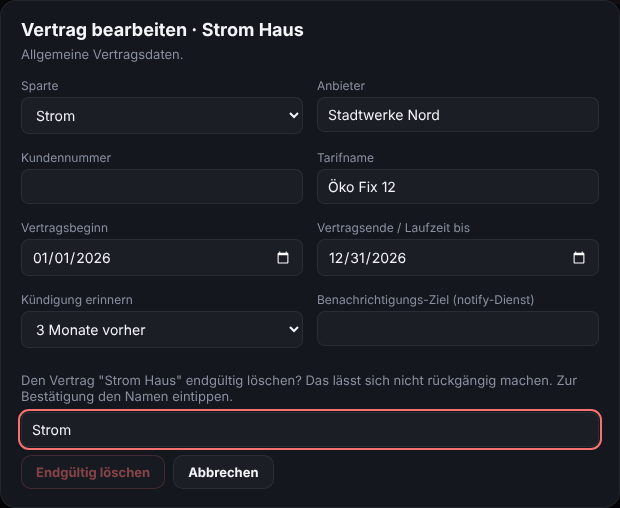
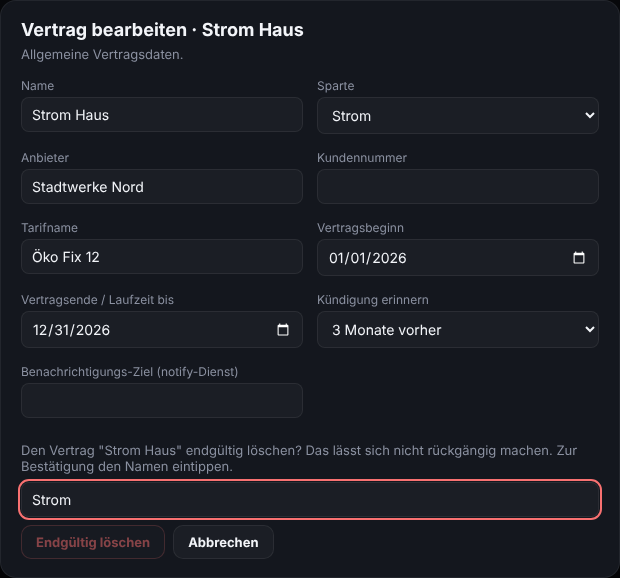
The name of a contract can be changed (1.28.0-beta.5)
Claude-Session: https://claude.ai/code/session_011wNPKqgRVqpMfNb2Np7XaH

diff --git a/custom_components/tariffy/config_flow.py b/custom_components/tariffy/config_flow.py
@@ -405,14 +405,21 @@ def _tag_nacht_fields(d: dict, enabled: bool = True) -> dict:
 
 # ------------------------------------------------------------------- schemas
 def _common_schema(
-    hass: HomeAssistant, d: dict[str, Any], *, mit_name: bool
+    hass: HomeAssistant,
+    d: dict[str, Any],
+    *,
+    mit_name: bool,
+    name: str | None = None,
 ) -> vol.Schema:
-    """Schritt 1: für alle Sparten gleich."""
+    """Schritt 1: für alle Sparten gleich. `name` ist der bisherige Name beim Bearbeiten."""
     fields: dict[Any, Any] = {}
     if mit_name:
         # FIX: vol.Required mit leerem String-Default → vol.Optional ohne Default
         # verhindert den 400-Fehler beim Laden des Config-Flows
-        fields[vol.Required("name")] = selector.TextSelector()
+        if name:
+            fields[vol.Required("name", default=name)] = selector.TextSelector()
+        else:
+            fields[vol.Required("name")] = selector.TextSelector()
     fields[vol.Required(CONF_SPARTE, default=d.get(CONF_SPARTE, "electricity"))] = _select(
         SPARTEN, translation_key="sparte"
     )
@@ -806,6 +813,8 @@ class TariffyConfigFlow(ConfigFlow, domain=DOMAIN):
         entry = self._get_reconfigure_entry()
         if user_input is not None:
             self._data = dict(user_input)
+            # der Name ist der Titel des Vertrags, kein Vertragsdatum; leer = bleibt wie er ist
+            self._entry_title = str(self._data.pop("name", "") or "").strip() or entry.title
             if user_input[CONF_SPARTE] == GAS_SPARTE:
                 return await self.async_step_reconfigure_gas()
             if user_input[CONF_SPARTE] == WASSER_SPARTE:
@@ -817,7 +826,7 @@ class TariffyConfigFlow(ConfigFlow, domain=DOMAIN):
             return await self.async_step_reconfigure_pauschal()
         return self.async_show_form(
             step_id="reconfigure",
-            data_schema=_common_schema(self.hass, dict(entry.data), mit_name=False),
+            data_schema=_common_schema(self.hass, dict(entry.data), mit_name=True, name=entry.title),
         )
 
     async def async_step_reconfigure_energie(
@@ -828,7 +837,9 @@ class TariffyConfigFlow(ConfigFlow, domain=DOMAIN):
             neu = _keep_internal_state(
                 entry.data, _stamp_abschlag_change(entry.data, {**self._data, **user_input})
             )
-            return self.async_update_reload_and_abort(entry, data=neu)
+            return self.async_update_reload_and_abort(
+                entry, title=self._entry_title or entry.title, data=neu
+            )
         return self.async_show_form(
             step_id="reconfigure_energie",
             data_schema=_energie_schema(dict(entry.data), _country_features(self.hass)),
@@ -842,7 +853,9 @@ class TariffyConfigFlow(ConfigFlow, domain=DOMAIN):
             neu = _keep_internal_state(
                 entry.data, _stamp_abschlag_change(entry.data, {**self._data, **user_input})
             )
-            return self.async_update_reload_and_abort(entry, data=neu)
+            return self.async_update_reload_and_abort(
+                entry, title=self._entry_title or entry.title, data=neu
+            )
         return self.async_show_form(
             step_id="reconfigure_energie_ht_nt",
             data_schema=_energie_ht_nt_schema(dict(entry.data), _country_features(self.hass)),
@@ -856,7 +869,9 @@ class TariffyConfigFlow(ConfigFlow, domain=DOMAIN):
             neu = _keep_internal_state(
                 entry.data, _stamp_abschlag_change(entry.data, {**self._data, **user_input})
             )
-            return self.async_update_reload_and_abort(entry, data=neu)
+            return self.async_update_reload_and_abort(
+                entry, title=self._entry_title or entry.title, data=neu
+            )
         return self.async_show_form(
             step_id="reconfigure_pauschal",
             data_schema=_pauschal_schema(dict(entry.data)),
@@ -873,7 +888,9 @@ class TariffyConfigFlow(ConfigFlow, domain=DOMAIN):
                 neu = _keep_internal_state(
                 entry.data, _stamp_abschlag_change(entry.data, {**self._data, **user_input})
             )
-                return self.async_update_reload_and_abort(entry, data=neu)
+                return self.async_update_reload_and_abort(
+                entry, title=self._entry_title or entry.title, data=neu
+            )
         return self.async_show_form(
             step_id="reconfigure_gas",
             data_schema=_gas_schema(user_input or dict(entry.data), _country_features(self.hass)),
@@ -888,7 +905,9 @@ class TariffyConfigFlow(ConfigFlow, domain=DOMAIN):
             neu = _keep_internal_state(
                 entry.data, _stamp_abschlag_change(entry.data, {**self._data, **user_input})
             )
-            return self.async_update_reload_and_abort(entry, data=neu)
+            return self.async_update_reload_and_abort(
+                entry, title=self._entry_title or entry.title, data=neu
+            )
         return self.async_show_form(
             step_id="reconfigure_wasser",
             data_schema=_wasser_schema(dict(entry.data), _country_features(self.hass)),

diff --git a/tests/test_reconfigure.py b/tests/test_reconfigure.py
@@ -72,6 +72,38 @@ async def test_nothing_is_lost_when_the_form_is_saved_unchanged(frontend_env, co
     assert data["ende"] == "2026-12-31"
 
 
+async def test_the_form_offers_the_name_first_with_the_current_one(frontend_env, contract, hass):  # noqa: F811
+    entry, _ = await _contract(contract)
+    result = await hass.config_entries.flow.async_init(
+        "tariffy", context={"source": "reconfigure", "entry_id": entry.entry_id}
+    )
+    first = next(iter(result["data_schema"].schema))
+    assert str(first) == "name" and first.default() == "Test"
+
+
+@pytest.mark.parametrize("sparte", ["electricity", "gas", "internet", "insurance"])
+async def test_the_name_can_be_changed(frontend_env, contract, hass, sparte):  # noqa: F811
+    from homeassistant.helpers import device_registry as dr, entity_registry as er
+
+    entry, _ = await _contract(contract, sparte=sparte)
+    entities_before = {e.entity_id for e in er.async_entries_for_config_entry(er.async_get(hass), entry.entry_id)}
+    extra = {"brennwert": "11.2", "zustandszahl": "0.95"} if sparte == "gas" else {}
+    data = await _reconfigure(hass, entry, first={"name": "  Autoversicherung  "}, second=extra)
+    assert entry.title == "Autoversicherung"  # trimmed
+    assert "name" not in data  # the name is the title, not a contract value
+    assert data["anbieter"] == "Stadtwerke"
+    device = dr.async_get(hass).async_get_device(identifiers={("tariffy", entry.entry_id)})
+    assert device is not None and device.name == "Autoversicherung"
+    entities_after = {e.entity_id for e in er.async_entries_for_config_entry(er.async_get(hass), entry.entry_id)}
+    assert entities_after == entities_before  # entity ids stay as they are
+
+
+async def test_an_empty_name_keeps_the_old_one(frontend_env, contract, hass):  # noqa: F811
+    entry, _ = await _contract(contract)
+    await _reconfigure(hass, entry, first={"name": "   "})
+    assert entry.title == "Test"
+
+
 async def test_edited_fields_are_stored_and_internal_state_stays(frontend_env, contract, hass):  # noqa: F811
     entry, _ = await _contract(contract)
     data = await _reconfigure(hass, entry, first={"tarif": "Neu"}, second={"arbeitspreis": 0.31})

diff --git a/docs/wiki/English.md b/docs/wiki/English.md
@@ -220,7 +220,7 @@ A contract whose end has passed and that has no next contract gets the badge **E
 
 **Plan the next contract:** "Plan next contract" (or "Edit next contract") shows the same form as "Configure" in Home Assistant; empty fields keep the current value. If a cancellation reminder is due, the box "Mark the cancellation as done" (on by default) acknowledges it in the same step. "Remove planned contract" removes only the plan, after a question. There is deliberately no "switch now" in the panel (it would replace the current contract before the new one starts); the switch happens by itself on the planned date.
 
-**Edit a contract:** "Edit contract" shows the two forms of "Reconfigure" (general data, then the data of the sparte) and asks once more before saving. Acknowledged reminders, "notification sent" markers and the frozen consumption of the last contract term are kept; the cancellation reminder starts over only when the contract end or the reminder lead time changes. An empty optional field removes its value.
+**Edit a contract:** "Edit contract" shows the two forms of "Reconfigure" (general data, then the data of the sparte) and asks once more before saving. Acknowledged reminders, "notification sent" markers and the frozen consumption of the last contract term are kept; the cancellation reminder starts over only when the contract end or the reminder lead time changes. An empty optional field removes its value. The first field is the **name** of the contract and can be changed (empty keeps the old one); it renames the contract and its device, while sensors, entity IDs and contract data stay.
 
 **New contract:** "New contract" (top of the Contracts tab) runs the setup dialog of Home Assistant (name, sparte and provider first, then the data of the sparte). The contract appears in the panel by itself.
 

diff --git a/custom_components/tariffy/CHANGELOG.md b/custom_components/tariffy/CHANGELOG.md
@@ -7,6 +7,14 @@ das Projekt folgt [Semantic Versioning](https://semver.org/lang/de/).
 
 ## [Unreleased]
 
+## [1.28.0-beta.5] - 2026-11-12
+
+Fünfte Beta zum Testen der Vertragshistorie und der Sicherung. Bitte melde Probleme mit dem Bug-Formular und nenne diese genaue Version.
+
+### Added
+
+- **Der Name eines Vertrags lässt sich ändern.** Der erste Schritt von "Vertrag bearbeiten" (im Panel und in Home Assistant unter "Neu konfigurieren") beginnt jetzt mit dem Feld "Name", gefüllt mit dem aktuellen Namen. Beim Speichern wird er übernommen: Name des Vertrags und seines Geräts ändern sich, die Sensoren, ihre Entity-IDs und alle Vertragsdaten bleiben. Ein leerer Name behält den alten. Bisher ließ sich der Name nur beim Anlegen des Vertrags setzen.
+
 ## [1.28.0-beta.4] - 2026-11-12
 
 Vierte Beta zum Testen der Vertragshistorie und der Sicherung. Bitte melde Probleme mit dem Bug-Formular und nenne diese genaue Version.

diff --git a/CHANGELOG.md b/CHANGELOG.md
@@ -7,6 +7,14 @@ and this project adheres to [Semantic Versioning](https://semver.org/spec/v2.0.0
 
 ## [Unreleased]
 
+## [1.28.0-beta.5] - 2026-11-12
+
+Fifth beta for testing the contract history and the backup. Please report problems with the bug report form and mention this exact version.
+
+### Added
+
+- **The name of a contract can be changed.** The first step of "Edit contract" (in the panel and in Home Assistant under "Reconfigure") now starts with the field "Name", filled in with the current name. Saving applies it: the name of the contract and of its device change, while the sensors, their entity IDs and all contract data stay as they are. An empty name keeps the old one. Until now the name could only be set when the contract was created.
+
 ## [1.28.0-beta.4] - 2026-11-12
 
 Fourth beta for testing the contract history and the backup. Please report problems with the bug report form and mention this exact version.

diff --git a/docs/wiki/Panel.md b/docs/wiki/Panel.md
@@ -69,6 +69,7 @@ Die normalen Backups von Home Assistant sichern Tariffy schon vollständig mit. 
 
 - Bestätigte Erinnerungen, „Benachrichtigung gesendet" und der eingefrorene Verbrauch der letzten Laufzeit bleiben beim Bearbeiten erhalten. Die Kündigungs-Erinnerung beginnt nur dann neu, wenn sich das Vertragsende oder die Vorlaufzeit ändert.
 - Ändert sich der Abschlag, merkt sich Tariffy wie bisher das Änderungsdatum, damit die Berechnung für die Zeit davor mit dem alten Abschlag weiterläuft.
+- **Der Name** des Vertrags steht als erstes Feld im ersten Schritt und lässt sich ändern (leer lassen = der Name bleibt). Er ändert den Namen des Vertrags und seines Geräts; Sensoren, Entity-IDs und Vertragsdaten bleiben.
 - Ein leeres optionales Feld entfernt den Wert.
 
 ## Neuer Vertrag
